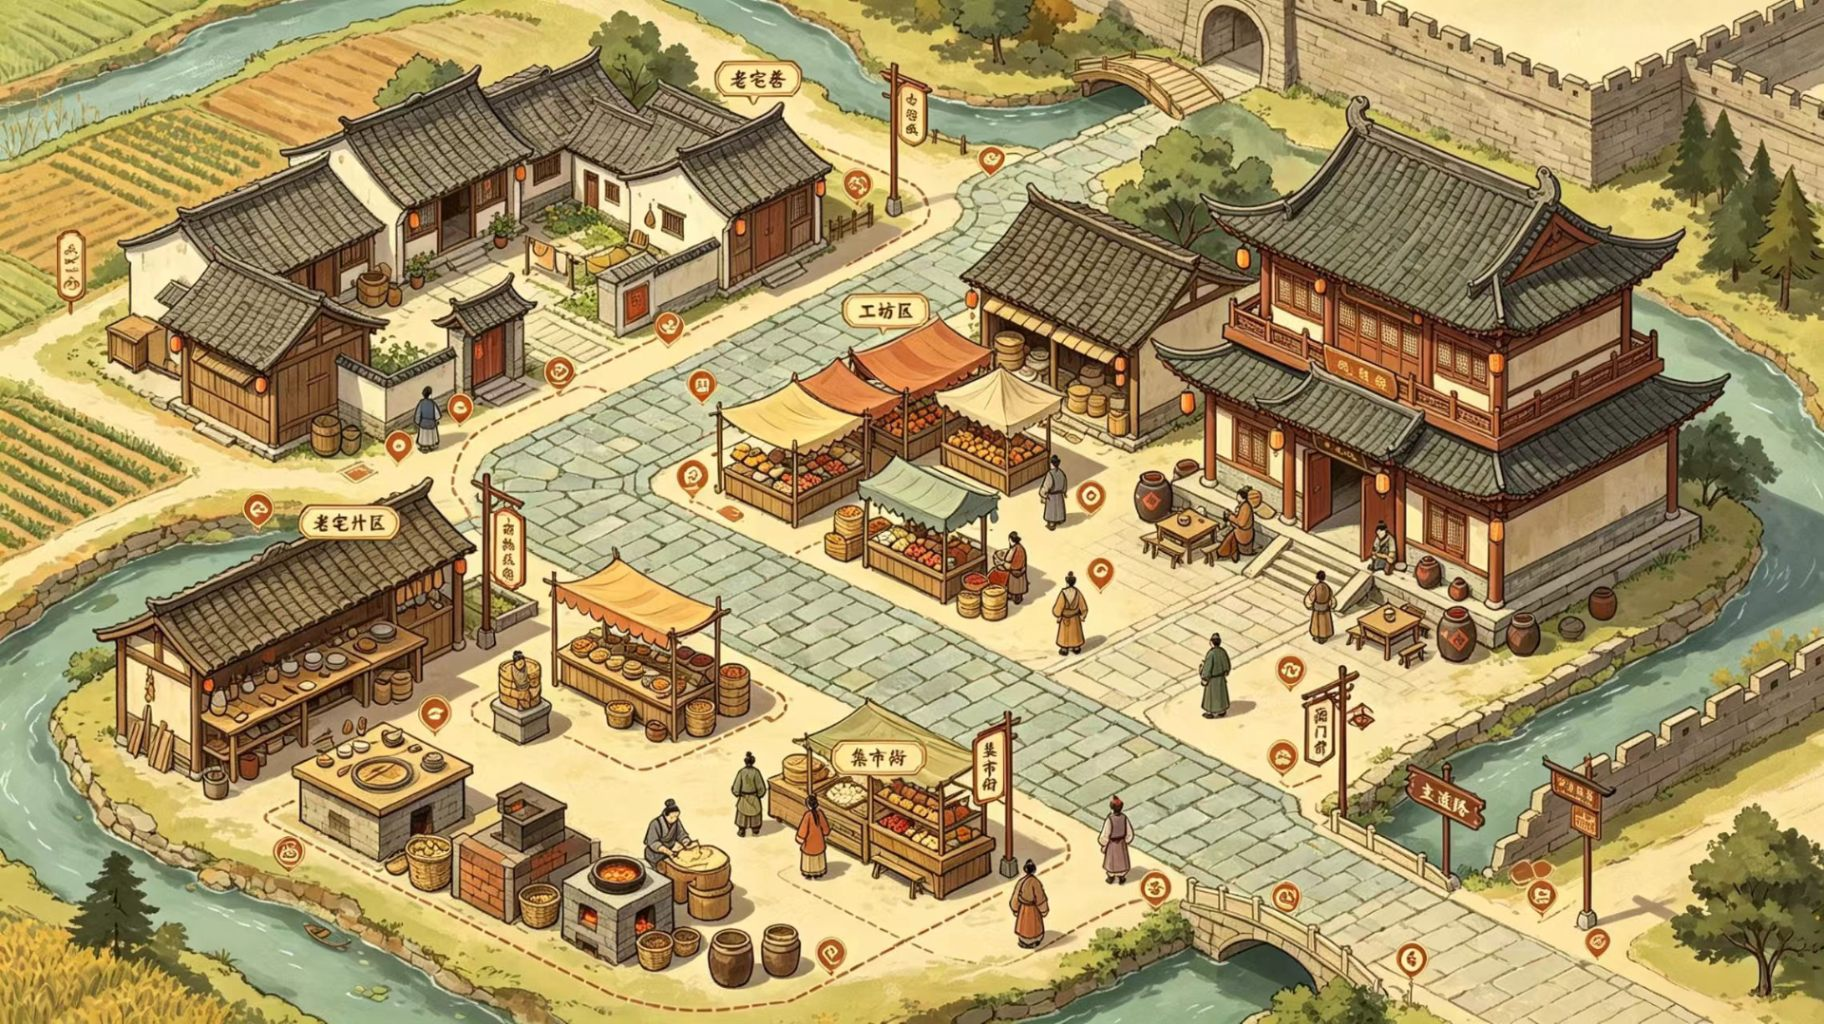
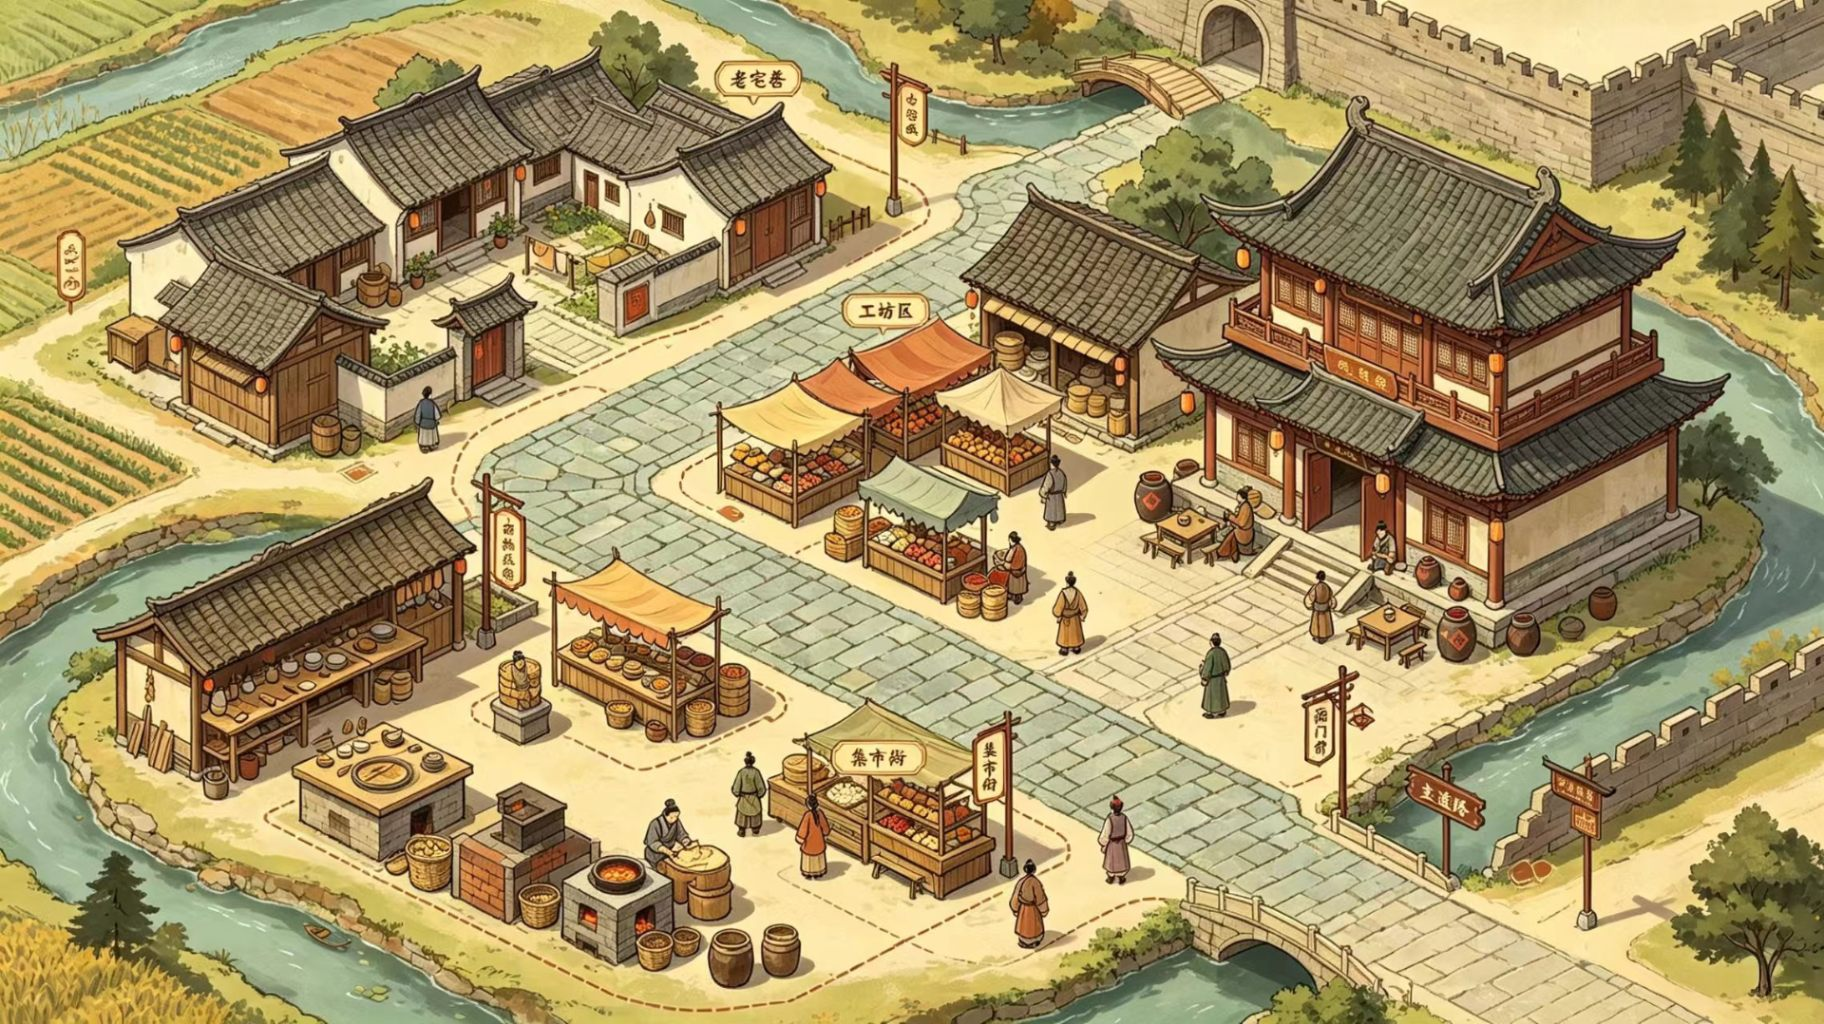
Add files via upload

diff --git a/index.html b/index.html
@@ -6,4 +6,80 @@
 <div id="activity-tabs" role="tablist" aria-label="产业切换"><button role="tab" data-activity="farm">一产 · 御田</button><button role="tab" data-activity="processing">二产 · 作坊</button><button role="tab" data-activity="sales">三产 · 交易</button><button role="tab" data-activity="variety">御贡图鉴</button><button role="tab" data-activity="social">社交认养</button><button role="tab" data-activity="ending">四时终章</button></div><section id="processing-root" aria-label="二产加工作坊" hidden></section><section id="sales-root" aria-label="三产销售玩法" hidden></section><section id="variety-root" aria-label="御贡图鉴" hidden></section><section id="social-root" aria-label="社交认养" hidden></section><section id="ending-root" aria-label="结局判定" hidden></section><section id="farm-root" aria-label="御田种植玩法"></section><section id="content" aria-live="polite"></section>
 <aside id="asset-notice" role="status"><span class="notice-dot"></span><span id="asset-message">正在检查模型资产…</span></aside>
 <div id="toast" role="status"></div>
-<footer><div class="footer-caption"><span class="tiny-line"></span><span id="view-description">京西御田 · 春季主菜单</span><small id="render-mode">WebGL</small></div><nav aria-label="季节与界面"><button data-season="spring"><b>春</b><span>主菜单</span></button><button data-season="summer"><b>夏</b><span>种植</span></button><button data-season="autumn"><b>秋</b><span>加工</span></button><button data-season="winter"><b>冬</b><span>图鉴</span></button></nav><div class="help">拖动旋转 · 滚轮缩放<small>一产种植 → 二产加工 → 三产文旅</small></div></footer></main><script type="module" src="./app.js"></script></body></html>
+<footer><div class="footer-caption"><span class="tiny-line"></span><span id="view-description">京西御田 · 春季主菜单</span><small id="render-mode">WebGL</small></div><nav aria-label="季节与界面"><button data-season="spring"><b>春</b><span>主菜单</span></button><button data-season="summer"><b>夏</b><span>种植</span></button><button data-season="autumn"><b>秋</b><span>加工</span></button><button data-season="winter"><b>冬</b><span>图鉴</span></button></nav><div class="help">拖动旋转 · 滚轮缩放<small>一产种植 → 二产加工 → 三产文旅</small></div></footer></main><script type="module" src="./app.js"></script><div id="boot-guard" hidden>
+  <div class="bg-card">
+    <span class="bg-seal">御<br>稻</span>
+    <h1>这一版没部署全</h1>
+    <p>页面骨架到了，但游戏脚本没能跑起来。缺的是下面这些文件：</p>
+    <ul id="bg-missing"></ul>
+    <p class="bg-hint">把 <b>_flat_build/</b> 里的<b>全部</b>文件（或解压 <b>_flat_build.zip</b>）一次性覆盖上传到仓库根目录，等 1~2 分钟再刷新。<br>注意：只传「改过的那几个」会留下旧文件互相打架，务必全量覆盖。</p>
+    <button id="bg-retry" type="button">重新检查</button>
+  </div>
+</div>
+<script>
+(function(){
+  // 检查清单不写死：从页面自己的 importmap 推导 three / addons 的实际路径，
+  // 再读 three 源文件、看它自己 import 了谁（min 版会额外 import three.core.js）。
+  // 这样源码树（vendor/…）和拍平包（根级 …）都能正确自检、不误报。
+  var threeURL=null,addonsBase=null;
+  try{
+    var map=JSON.parse(document.querySelector('script[type="importmap"]').textContent).imports||{};
+    threeURL=map['three']||null;addonsBase=map['three/addons/']||null;
+  }catch(e){}
+  var files=['./app.js','./farm-ui.js','./immersive.js','./alignment.json','./style.css'];
+  if(threeURL)files.push(threeURL);
+  if(addonsBase){
+    // 拍平包把 addons 拍到了根级（three/addons/ → ./），源码树则保留 loaders/ 子目录
+    files.push(/^\.\/?$/.test(addonsBase)?addonsBase+'GLTFLoader.js':addonsBase+'loaders/GLTFLoader.js');
+  }
+  var guard=document.getElementById('boot-guard'),list=document.getElementById('bg-missing');
+  function show(items){
+    if(!guard||!list)return;
+    list.innerHTML=items.map(function(f){return '<li><code>'+f+'</code></li>';}).join('');
+    guard.hidden=false;document.body.dataset.boot='failed';
+  }
+  function ok(){
+    if(guard)guard.hidden=true;
+    if(document.body.dataset.boot!=='failed')document.body.dataset.boot='ok';
+  }
+  // 把绝对地址显示成「相对本页的路径」，玩家/我一眼能对上仓库里的文件
+  function short(u){
+    try{
+      var p=new URL(u,location.href).pathname,base=location.pathname.replace(/[^/]*$/,'');
+      return p.indexOf(base)===0?p.slice(base.length):p.replace(/^\//,'');
+    }catch(e){return u;}
+  }
+  function scanDeps(missing){
+    // three 源文件自己声明的同目录依赖（如 min 版 import 的 three.core.js）
+    if(!threeURL)return Promise.resolve(missing);
+    return fetch(threeURL,{cache:'no-store'}).then(function(r){return r.ok?r.text():'';}).then(function(txt){
+      var deps=[],re=/(?:from|import)\s*["']([^"']+\.js)["']/g,m;
+      while((m=re.exec(txt)))if(!/^https?:|^\.\.\//.test(m[1]))deps.push(m[1]);
+      var urls=deps.map(function(d){return new URL(d,new URL(threeURL,location.href)).href;});
+      return Promise.all(urls.map(function(u){return fetch(u,{method:'GET',cache:'no-store'}).then(function(r){return {u:u,ok:r.ok};}).catch(function(){return {u:u,ok:false};});}))
+        .then(function(ds){ds.forEach(function(d){if(!d.ok&&missing.indexOf(short(d.u))<0)missing.push(short(d.u));});return missing;});
+    }).catch(function(){return missing;});
+  }
+  function check(){
+    if(window.__JINGXI_BOOTED){ok();return;}
+    Promise.all(files.map(function(f){
+      return fetch(f,{cache:'no-store'}).then(function(r){return {f:short(f),ok:r.ok};}).catch(function(){return {f:short(f),ok:false};});
+    })).then(function(res){
+      if(window.__JINGXI_BOOTED){ok();return;}
+      return scanDeps(res.filter(function(x){return !x.ok;}).map(function(x){return x.f;})).then(function(missing){
+        if(window.__JINGXI_BOOTED){ok();return;}
+        if(missing.length)show(missing);
+        else if(!window.__JINGXI_MODULE_LOADED)show(['脚本在解析或初始化阶段就中断了（上面这些文件都在，按 F12 看控制台第一条红字）']);
+        else show(['脚本已加载但初始化报错：按 F12 打开控制台，把第一条红字发我']);
+      });
+    });
+  }
+  setTimeout(check,7000);
+  // 初始化一完成就落标记（不等 7 秒那一轮），供页面自身与自动化测试判断「已正常起跑」
+  var tick=setInterval(function(){
+    if(window.__JINGXI_BOOTED){ok();clearInterval(tick);}
+  },300);
+  document.getElementById('bg-retry').addEventListener('click',function(){location.reload();});
+})();
+</script>
+</body></html>

diff --git a/style.css b/style.css
@@ -6,3 +6,19 @@
 @media(max-width:1000px){.topbar{left:24px;right:24px}.chapter{display:none}.season-side{left:24px}.hero{left:11%}.workspace{left:10%;right:3%}.side-card{width:260px;padding:20px}.steps{gap:7px}.step{width:110px}.process-card{width:115px;padding:18px 12px}.help{display:none}footer{left:24px;right:24px}.album{width:53vw}.album-grid{gap:6px}.seed-slot{height:75px}}
 @media(max-width:700px){#app{min-height:780px;overflow:auto}.brand{font-size:19px}.top-right{gap:10px}.top-right button{display:none}.topbar{top:23px}.hero{top:22%;left:13%}h1{font-size:58px}.hero-stamp{right:7%;font-size:19px}.season-side{left:19px;top:27%}.workspace{display:block;left:13%;right:7%;top:16%}.workspace-title h1{font-size:36px}.workspace-title p{font-size:12px}.side-card{margin-top:20px;width:100%;max-width:400px;padding:16px}.workspace .steps{display:none}.keyline{margin:10px 0}.field-options{margin:10px 0}.production{gap:8px;margin-top:15px}.process-card{width:31%;padding:12px}.process-card .symbol{height:28px;font-size:25px}.process-card h3{font-size:18px;margin:8px 0}.album{width:100%;padding:17px;margin-top:17px}.album-grid{gap:6px}.seed-slot{height:63px}.seed-slot .seed{height:20px;width:9px}.album-description{margin:10px 0 0}footer{left:15px;right:15px;bottom:20px;justify-content:center}.footer-caption{display:none}nav{gap:2px;padding:5px}nav button{padding:11px 12px}nav button span{font-size:10px;letter-spacing:0}#asset-notice{bottom:95px;white-space:normal;max-width:92%;width:max-content;font-size:9px}.intro{max-width:270px;font-size:14px}.primary,.secondary{padding:13px 18px}.hero-actions{margin-top:22px}}
 #space-transition{position:fixed;inset:0;z-index:30;pointer-events:none;opacity:0;background:linear-gradient(90deg,#f7e8c6 0%,#d8b26a 45%,#6e9b91 100%);transform:scaleX(0);transform-origin:left;transition:transform .45s ease,opacity .3s}.#space-transition.show{opacity:.92;transform:scaleX(1);animation:scroll-wipe 2s ease forwards}@keyframes scroll-wipe{0%{transform:scaleX(0)}38%{transform:scaleX(1)}70%{transform:scaleX(1)}100%{transform:scaleX(0);transform-origin:right}}
+/* 部署自检：模块加载失败时取代「砸成一坨」的骨架，给出明确的缺文件清单 */
+#boot-guard{position:fixed;inset:0;z-index:99;display:flex;align-items:center;justify-content:center;padding:24px;background:linear-gradient(135deg,#f6efdd,#e4e9dc 60%,#dfe7e2)}
+#boot-guard[hidden]{display:none}
+#boot-guard .bg-card{position:relative;width:min(560px,100%);max-height:88vh;overflow:auto;padding:38px 40px 34px;background:linear-gradient(135deg,#fffcf1f2,#f5f0dfe6);border:1px solid #9e8c5959;border-radius:3px;box-shadow:0 18px 50px #1629171f;font-family:"STKaiti","KaiTi",serif}
+#boot-guard .bg-seal{position:absolute;top:34px;right:38px;width:36px;height:46px;background:#8f3e2e;color:#fff2d5;text-align:center;line-height:19px;padding-top:4px;font-size:17px;border-radius:3px;outline:1px solid #a15e4e;outline-offset:3px}
+#boot-guard h1{font:normal clamp(28px,4.4vw,38px)/1.2 "STKaiti","KaiTi",serif;letter-spacing:6px;color:#263f35;margin:0 0 16px;text-shadow:0 2px 12px #fff9;max-width:78%}
+#boot-guard p{font:15px/2 "STKaiti","KaiTi",serif;letter-spacing:1px;color:#3d5548;margin:0 0 14px}
+#boot-guard ul{list-style:none;margin:18px 0 20px;padding:16px 18px;background:#ffffffa8;border:1px solid #9e8c593a;border-radius:2px;max-height:210px;overflow:auto}
+#boot-guard li{font-family:ui-monospace,Menlo,Consolas,monospace;font-size:12.5px;line-height:2;color:#8b3a2c;letter-spacing:0;word-break:break-all;display:flex;gap:9px;align-items:baseline}
+#boot-guard li:before{content:"缺";flex-shrink:0;font-family:"STKaiti","KaiTi",serif;font-size:11px;color:#fff4d8;background:#9f5140;border-radius:2px;padding:1px 5px}
+#boot-guard .bg-hint{font-size:13px;line-height:2.05;color:#6b7a63;background:#f1f2e0a8;border-left:2px solid #ae8344;padding:12px 15px;letter-spacing:.5px}
+#boot-guard .bg-hint b{color:#8b6c33;font-weight:400;background:#e8dcc0a8;padding:1px 5px;border-radius:2px}
+#boot-guard #bg-retry{margin-top:22px;padding:12px 30px;border:1px solid #536c51;border-radius:2px;background:#314f3d;color:#fff5dc;font-size:13px;letter-spacing:4px;font-family:"STKaiti","KaiTi",serif}
+#boot-guard #bg-retry:hover{background:#456746}
+body[data-boot="failed"] .topbar,body[data-boot="failed"] #activity-tabs,body[data-boot="failed"] footer,body[data-boot="failed"] #asset-notice,body[data-boot="failed"] #system-panel,body[data-boot="failed"] .season-side{display:none}
+@media(max-width:700px){#boot-guard .bg-card{padding:28px 22px 26px}#boot-guard h1{letter-spacing:3px;max-width:100%}#boot-guard .bg-seal{display:none}#boot-guard p,#boot-guard .bg-hint{font-size:13px;line-height:1.95}}

diff --git a/sales-ui.js b/sales-ui.js
@@ -32,7 +32,7 @@ export function createSales({getState,dispatch}){
   document.querySelector('#sales-root').innerHTML=`<div class="sales-heading"><span>京西商路 · 三产销售</span><h1>时空交易行</h1><button class="space-switch" data-space="home">← 回家</button><p>第 ${s.year} 年 · ${s.season==='spring'?'春 · 谷雨':s.season==='summer'?'夏 · 小暑':s.season==='autumn'?'秋 · 秋分':'冬 · 冬至'} · 根据品质与库存选择销路</p></div>
   <section class="sales-stats"><div><span>持有文</span><strong>${x.wen.toLocaleString()} 文</strong><small>用于交地租、买种子、雇短工</small></div><div><span>食物本季已售</span><strong>${x.foodSold} / 1000 份</strong><small>本季额度 · 每季归零</small></div><div><span>稻米本季已售</span><strong>${x.riceSoldKg/RICE_PER_STONE} / 5 石</strong><small>≈ ${x.riceSoldKg} / 250 kg · 每季归零</small></div><div><span>可售品质</span><strong>${quality}</strong><small>${restaurantAccepts(quality)?'酒楼可接收':'酒楼只收优等以上'}</small></div><div><span>本季毛收入</span><strong>${(x.seasonIncome||0).toLocaleString()} 文</strong><small>季末要扣地租、维护与修缮</small></div></section>
   <div class="sales-columns"><section class="sales-card"><h2>选择货品</h2><div class="sales-products">${products.map(([id,v])=>`<button class="sales-product ${id===selected?'active':''}" data-sale-product="${id}"><b>${v.name}</b><span>库存 ${id==='rice'?s.rice+' kg ≈ '+Math.floor(s.rice/RICE_PER_STONE)+' 石':id==='crab'?(s.crabs||0)+' 只':(s.workshop?.foods?.[id]||0)+' '+v.unit}</span></button>`).join('')}</div><label class="sales-label">出售数量（${unitLabel}）<input id="sale-quantity" type="number" min="1" max="${Math.max(1,maxQuantity)}" step="1" value="${shownQuantity}"></label>${p?.kind==='rice'?`<button class="text-button" data-kg-toggle>按${kgMode?'石':'kg'}输入</button>`:''}<p class="sales-hint" id="sale-convert"></p><p class="sales-hint" id="sale-cap"></p></section>
-  <section class="sales-card"><h2>三个销售渠道</h2><div class="sales-channels">${Object.entries(CHANNELS).map(([id,c])=>{const quote=saleQuote(s,id,selected,quantity);const on=id===channel;const eligible=eligibleFor(s,id,selected,quality);return `<button class="sales-channel ${on?'active':''}" data-sale-channel="${id}" aria-pressed="${on?'true':'false'}" ${!eligible?'disabled':''}><b>${c.name}</b><span>${c.description}</span><strong>${quote?quote.net.toLocaleString()+' 文净得':'不可售'}</strong><small>单价 ${quote?quote.unitPrice:'—'} · 手续费 ${c.fee} 文/笔</small></button>`}).join('')}</div><button class="sales-primary" data-sale-submit ${!q||q.quantity<1||q.quantity>u.max?'disabled':''}>出售 ${quantity} ${unitLabel} · 预计净得 ${q?.net||0} 文</button><div class="sales-message" role="status">${esc(message)}</div></section></div>
+  <section class="sales-card"><h2>三个销售渠道</h2><div class="sales-channels">${Object.entries(CHANNELS).map(([id,c])=>{const quote=saleQuote(s,id,selected,quantity);const on=id===channel;const eligible=eligibleFor(s,id,selected,quality);return `<button class="sales-channel ${on?'active':''}" data-sale-channel="${id}" aria-pressed="${on?'true':'false'}" ${!eligible?'disabled':''}><b>${c.name}</b><span>${c.description}</span><strong>${quote?quote.net.toLocaleString()+' 文净得':'不可售'}</strong><small>${!eligible&&id==='restaurant'?`品质「${quality}」未达门槛 · 只收「优」以上，把水质和生态养上去再来`:quote?`单价 ${quote.unitPrice} · 手续费 ${c.fee} 文/笔`:`手续费 ${c.fee} 文/笔`}</small></button>`}).join('')}</div><button class="sales-primary" data-sale-submit ${!q||q.quantity<1||q.quantity>u.max?'disabled':''}>出售 ${quantity} ${unitLabel} · 预计净得 ${q?.net||0} 文</button><div class="sales-message" role="status">${esc(message)}</div></section></div>
   <section class="sales-card sales-log"><h2>最近交易</h2>${x.history?.length?`<ol>${x.history.slice(0,5).map(h=>`<li>${CHANNELS[h.channel].name} · ${SALES_PRODUCTS[h.id].name} ×${h.quantity}${h.id==='rice'?' 石（'+h.quantity*RICE_PER_STONE+' kg）':' '+SALES_PRODUCTS[h.id].unit} · 净得 ${h.net} 文</li>`).join('')}</ol>`:'<p>暂无交易，先从食物仓库选择货品。</p>'}</section>`;
   document.querySelectorAll('[data-sale-product]').forEach(b=>b.onclick=()=>{selected=b.dataset.saleProduct;quantity=1;kgMode=false;render();});
   document.querySelectorAll('[data-sale-channel]').forEach(b=>b.onclick=()=>{channel=b.dataset.saleChannel;refresh();});  const input=document.querySelector('#sale-quantity');

diff --git a/app.js b/app.js
@@ -7,6 +7,8 @@ import {GLTFLoader} from './GLTFLoader.js';
 import {RoomEnvironment} from './RoomEnvironment.js';
 import {mergeGeometries} from './BufferGeometryUtils.js';
 
+// 能执行到这里，说明 three 与全部模块都解析成功了 —— 用于部署自检（见 index.html 的 #boot-guard）。
+window.__JINGXI_MODULE_LOADED=true;
 const ALIGN=await (await fetch('./alignment.json',{cache:'no-store'})).json();
 const $=s=>document.querySelector(s);
 const SEASONS={
@@ -302,4 +304,4 @@ const materials=Array.isArray(o.material)?o.material:[o.material];for(const m of
 $('#reset-view').addEventListener('click',()=>{setView(activeSeason);toast('已恢复田野镜头');});
 document.addEventListener('pointerdown',()=>{audioUnlock();if(farmState)audioScene({water:farmState.water,ecology:farmState.ecology});},{once:true});
 window.jingxiAudio={toggle:()=>{const on=audioToggle();toast(on?'音效已开启':'音效已关闭');return on;}};
-try{init();assets=(await (await fetch('./manifest.json')).json()).files;const game=mountFarm({onChange:syncFarm});mountImmersive(game);resizeView();}catch(err){$('#farm-root').textContent='页面初始化失败：'+err.message;diagnostics.errors.push(String(err));}
+try{init();assets=(await (await fetch('./manifest.json')).json()).files;const game=mountFarm({onChange:syncFarm});mountImmersive(game);resizeView();window.__JINGXI_BOOTED=true;}catch(err){$('#farm-root').textContent='页面初始化失败：'+err.message;diagnostics.errors.push(String(err));}
